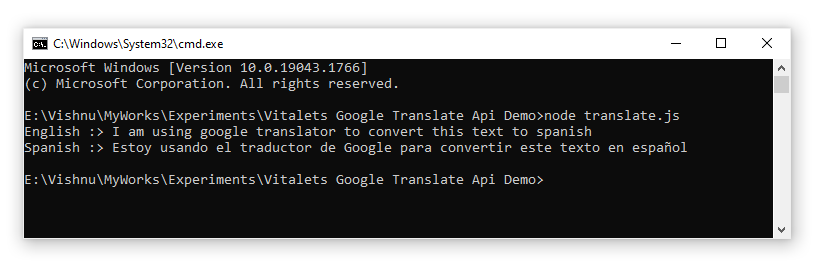
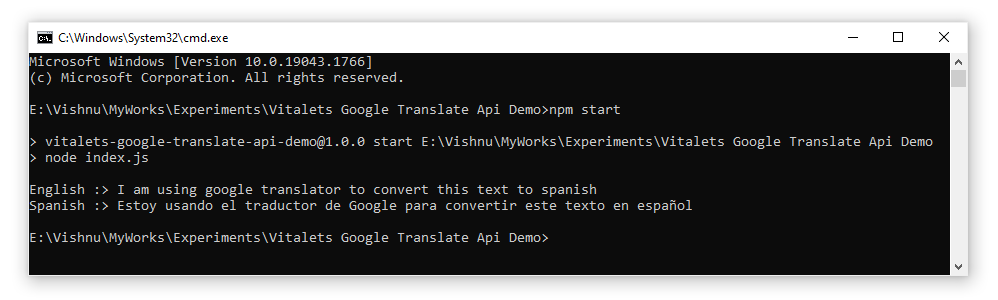
corrections

Changed region(s): [[0.0304, 0.0582, 0.9732, 0.96], [0.0304, 0.6109, 0.6995, 0.7273], [0.0304, 0.7564, 0.5474, 0.8145]]

diff --git a/Readme.md b/Readme.md
@@ -2,6 +2,11 @@
 
 ### Install
 ```
+npm install
+```
+or
+
+```
 npm install @vitalets/google-translate-api
 ```
 
